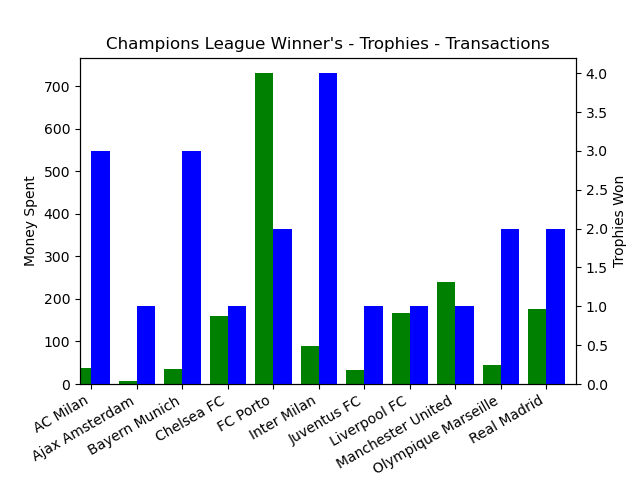
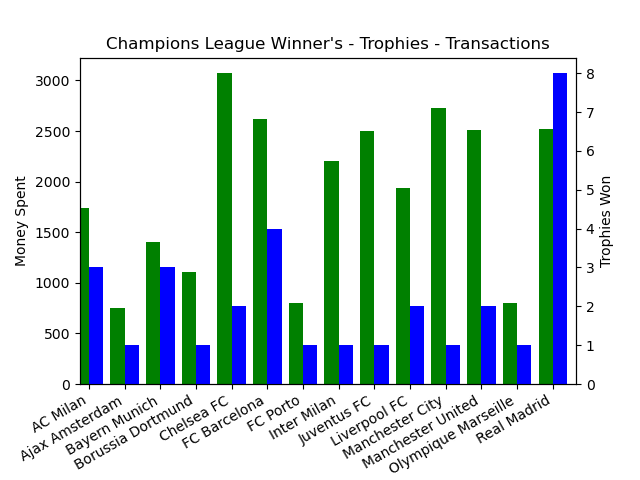
Refactor draft paper results

diff --git a/src/utils.py b/src/utils.py
@@ -3,6 +3,10 @@ import pandas as pd
 import math
 from preprocess import Preprocessing
 import matplotlib.pyplot as plt
+import seaborn as sns
+from scipy.optimize import curve_fit
+import numpy as np
+
 
 class Utils:
     """
@@ -260,30 +264,122 @@ class Utils:
             y = number of edges (transfers)
             node size = normalized omega value
     """
-    def plot_omegas(self, data):
+    def plot_omegas(self, data, omegas_norm):
+        
         keys = list(data.keys()) # names of leagues
+        y_omegas = list(omegas_norm.values())
+        
         
         # Assing Unique Identifier
         id_leagues = {}
         for i in range(len(keys)):
             id_leagues.update({keys[i]:i+1})
-            
+        
+        ids_names = list(id_leagues.keys())
         ids = list(id_leagues.values())
         
-        y_omegas =[]
         x_transfers = []
-        x_teams = []
-        for (omega, teams, transfers) in data.values():
-            y_omegas.append(omega)
+        for (omega, _, transfers) in data.values():
             x_transfers.append(transfers)
-            x_teams.append(teams)
+    
 
+        print(x_transfers, y_omegas)
         fig, ax = plt.subplots()
-        ax.scatter(x_transfers, y_omegas)
+        scatter = ax.scatter(x_transfers, y_omegas)
 
         for i, txt in enumerate(ids):
             ax.annotate(txt, (x_transfers[i], y_omegas[i]))
+            print(ids_names[i], txt, x_transfers[i], y_omegas[i])
+            
+        # plt.xlabel("Nº transfers", fontsize = 15, c = "black")
+        # plt.ylabel("Omega", fontsize = 15, c = "black")     
+        # sns.regplot(x=x_transfers, y=y_omegas)
         
-        plt.title('Pairs of Leagues - Small World')
-        plt.savefig("../plots/omegas_league.png", format="PNG")
+        # plt.title('Pairs of Leagues - Small World')
+        # plt.savefig("../plots/omegas_league_trasnfers_regression.png", format="PNG")
+        # plt.show()
+        
+    """ 
+        Plot Btw Centrality vs money and positions
+            Do a mapping to dictionary where
+            {team:(position, money, btw_centr, money_community)}
+            
+        x -> Positions or money spent.
+        y -> Betweenness centrality value.
+    """
+    def objective(self, x, a, b, c, d, e, f):
+        return (a * x) + (b * x**2) + (c * x**3) + (d * x**4) + (e * x**5) + f
+    
+    def objective4(self, x, a, b, c, d, e):
+        return (a * x) + (b * x**2) + (c * x**3) + (d * x**4) + e
+    
+    def objective2(self, x, a, b, c,):
+        return (a * x) + (b * x**2) + c
+    
+    def plot_betwenness(self, btw_centr, prem_stats, money_comm_idx, spent):
+        
+        btw_plot = {}
+        # Assing Unique Identifier to team
+        id_leagues = {}
+        for i in range(len(btw_centr)):
+            team, bc = btw_centr[i]
+            id_leagues.update({team:i+1})
+            
+            # Get average historical position per team
+            pos, _ = prem_stats.get(team)
+            
+            # Get total money spent per teams
+            money = spent.get(team)
+            
+            # Get waht group of money is from
+            money_comm = money_comm_idx.get(team)
+            print(team, money_comm)
+            
+            btw_plot.update({team:(pos,money,bc, money_comm)})
+        
+        
+        ids_names = list(id_leagues.keys())
+        ids = list(id_leagues.values())
+        print("The id _leagues \n:", id_leagues)
+        
+        x_money = []
+        x_pos = []
+        y_bc = []
+        m_comms = []
+        for (pos, money, bc, money_comm) in btw_plot.values():
+            y_bc.append(bc)
+            x_money.append(money)
+            x_pos.append(pos)
+            m_comms.append(money_comm)
+            
+        fig, ax = plt.subplots()
+        
+        # list of length 44, 1-4 representing what community a team is
+        money_groups = ['$ > 1100€', '€ > 600 and € <= 1100','€ < 600 and € >= 300','€ < 300']
+        
+        # Draw a polynomial fit curve based on results
+        popt,_ = curve_fit(self.objective, x_pos, y_bc)
+        a, b, c, d, e, f = popt
+        
+        scatter = plt.scatter(x_pos, y_bc, c = m_comms)
+        
+        x_line = np.arange(min(x_pos), max(x_pos), 1)
+        y_line = self.objective(x_line, a, b, c, d, e, f)
+        
+        plt.plot(x_line, y_line, '--', color='r', alpha=0.5)
+        plt.legend(handles=scatter.legend_elements()[0], labels=money_groups,
+                   loc='upper center', bbox_to_anchor=(0.5, 1.25),
+                   ncol=2, fancybox=True, shadow=True)
+        
+    
+        for i, txt in enumerate(ids):
+            ax.annotate(txt, (x_pos[i], y_bc[i]))
+            
+    
+        plt.xlabel("Average Position", fontsize = 15, c = "black")
+        plt.ylabel("Betwenness Centrality", fontsize = 15, c = "black")     
+        
+        plt.title('Betwenness Centrality - Average Position')
+        plt.savefig("../plots/btw_position_regressionPol5.png", format="PNG")
         plt.show()
+    

diff --git a/src/main.py b/src/main.py
@@ -28,7 +28,7 @@ import math
 
 champ_league_winners = ['Olympique Marseille', 'Ajax Amsterdam', 'Juventus FC', 'Manchester United',
                         'FC Porto', 'Liverpool FC', 'FC Barcelona', 'AC Milan', 'Chelsea FC',
-                        'Bayern Munich', 'Real Madrid', 'Borussia Dortmund', 'Inter Milan']
+                        'Bayern Munich', 'Real Madrid', 'Borussia Dortmund', 'Inter Milan', 'Manchester City']
 
 
 europa_league_winners = ['Juventus FC', 'Inter Milan', 'AC Parma', 'Bayern Munich', 'FC Schalke 04',
@@ -123,7 +123,7 @@ def new_execution():
     comm = Community()
     ch_process = ChampionsDataProcess()
     
-    # soccer_dict, teams = util.create_dict(5)
+    soccer_dict, teams = util.create_dict(7)
     
     # Teams -> 314 nodes. 
     #print(sorted(teams))
@@ -156,8 +156,8 @@ def new_execution():
     """
         Obtain how much money Champions League and Europa League winners have spent and received.
     """
-    # spent_ch, received_ch = get_champions_league_spent_received_money(soccer_dict, champ_league_winners)
-    # spent_el, received_el = get_champions_league_spent_received_money(soccer_dict, europa_league_winners)
+    #spent_ch, received_ch = get_champions_league_spent_received_money(soccer_dict, champ_league_winners)
+    #spent_el, received_el = get_champions_league_spent_received_money(soccer_dict, europa_league_winners)
     
     
     """ 
@@ -199,8 +199,8 @@ def new_execution():
         Plot them,
     
     """
-    # pos_com_idx, points_pos_idx = prep.organize_teams(prem_stats)
-    # print("\nThe pos_com_idx: ", pos_com_idx)
+    #pos_com_idx, points_pos_idx = prep.organize_teams(prem_stats)
+    #print("\nThe pos_com_idx: ", pos_com_idx)
     # print("\nThe points_com_idx: ", points_pos_idx)
     
     # # Get ordered communities for both avg_pos, and total points
@@ -219,16 +219,19 @@ def new_execution():
     # spent = util.sub_champions_spent_community(prem_soccer, prem_teams)
     # print(spent)
     # money_comm_idx = prep.get_money_community(spent)
-    # money_comm_idx = deconstruct_com_idx(money_comm_idx)
+    # print(money_comm_idx)
+    #money_comm_idx = deconstruct_com_idx(money_comm_idx)
     # print(money_comm_idx)
     
     """
         Study Betweenness centrality of teams in the given community.
         (There's an option to study both degree and centrality)
     """
-    #btw_centr, graph = sc.community_attributes(prem_stats, prem_ordered, prem_graph)
+    # btw_centr, graph = sc.community_attributes(prem_stats, prem_ordered, prem_graph)
     # btw_centr = prep.sort_dictionary_by_value(btw_centr)
-    # print(btw_centr)
+    #print(btw_centr)
+    
+    #util.plot_betwenness(btw_centr, prem_stats, money_comm_idx, spent)
     
     """ Clustering Coefficient """
     #coeff = prep.get_graph_clustering_ceff(graph)
@@ -271,9 +274,9 @@ def new_execution():
     """
         Normalize omega values for small-world property to see which pair to pair leagues has a better relationship
     """
-    dict_omega, plot_dict, omega_graph = util.normalize_pair_league_omegas()
-    # print(prep.sort_dictionary_by_value(dict_omega))
-    util.plot_omegas(plot_dict)
+    #dict_omega, plot_dict, omega_graph = util.normalize_pair_league_omegas()
+    #print(prep.sort_dictionary_by_value(dict_omega))
+    #util.plot_omegas(plot_dict, dict_omega)
             
     
     

diff --git a/src/stats_comm.py b/src/stats_comm.py
@@ -137,12 +137,12 @@ class StatsAndCommunities:
         for i in range(n_com):
             
             teams = communities.get(i+1)
-            print("\nCommunity nº: ", i+1)
+            #print("\nCommunity nº: ", i+1)
             for team, (avg_pos, points) in stats.items():
                 if team in graph.nodes() and team in teams:
-                    #pass
+                    pass
                     
-                    print(f"Betweenness Centrality {team:2} {btw_centr[team]:.3f}")
+                    #print(f"Betweenness Centrality {team:2} {btw_centr[team]:.3f}")
                     #print(f"Closeness Centrality { team:2} {close[team]:.3f}")
                     #print(f"Degree Centrality {team:2} {deg_centrality[team]:.3f}\n")
         
@@ -191,10 +191,10 @@ class StatsAndCommunities:
                 
                 
         points_corr = self.calculating_spearmanr_corr_stats(b_points)
-        print("The points - betwenness corr. coeff. for teams is ", points_corr, "\n")
+        #print("The points - betwenness corr. coeff. for teams is ", points_corr, "\n")
         
         position_corr = self.calculating_spearmanr_corr_stats(b_pos)
-        print("The position - betwenness corr. coeff. for teams is ", position_corr, "\n")
+       # print("The position - betwenness corr. coeff. for teams is ", position_corr, "\n")
         
         #self.plotting_categorical(b_points,  "Points", "Betwenneess")
         #self.plotting_categorical(b_pos,  "Avg. Position", "Betwenneess")

diff --git a/src/ch_league_process.py b/src/ch_league_process.py
@@ -70,11 +70,12 @@ class ChampionsDataProcess:
         teams = list(data.keys())
         money = list(data.values())
     
+        print(teams)
         if n == 0:
-            trophies = [3, 1, 3, 1, 2, 4, 1, 1, 1, 2, 2, 1, 8] 
+            trophies = [3, 1, 3, 1, 2, 4, 1, 1, 1, 2, 1, 2, 1, 8] 
 
         else:
-            trophies = [3,1,1,2,1,2,1,1,1,2,1,1,1,2,6,1,1,1,1]
+            trophies = [3,1,1,2,1,2,1,1,1,2,1,1,1,2,7,1,1,1,1]
         
         y = np.array(trophies)
         x = np.array(money)
@@ -87,19 +88,22 @@ class ChampionsDataProcess:
         values = list(data.values())
         
         if n == 0:
-            trophies = [3, 1, 3, 1, 2, 4, 1, 1, 1, 2, 2, 1, 8] 
+            trophies = [3, 1, 3, 1, 2, 4, 1, 1, 1, 2, 1, 2, 1, 8] 
             if not dinero: # Money Received
                 n = 2
             
         else:
-            trophies = [3,1,1,2,1,2,1,1,1,2,1,1,1,2,6,1,1,1,1]
+            trophies = [3,1,1,2,1,2,1,1,1,2,1,1,1,2,7,1,1,1,1]
             if not dinero:
                 n = 3
     
+        print(names)
+        print(trophies)
         df = pd.DataFrame(list(zip(values, trophies)),
                columns =['Money', 'Trophies'])
         
         df = df.set_axis(names)
+        print(df['Trophies'])
 
         # print(df) # Print list of the names
         fig = plt.figure() # Create matplotlib figure
